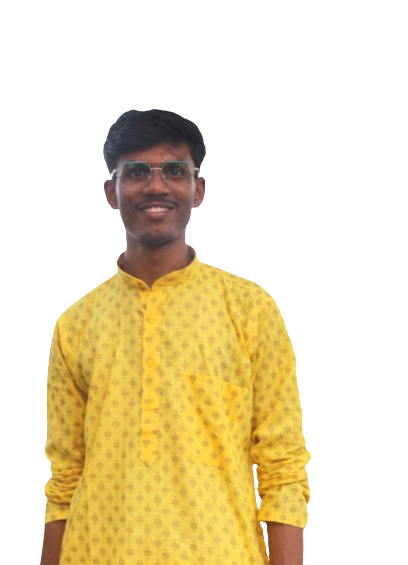
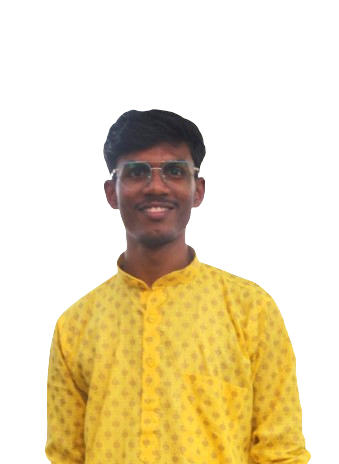
Update hero image container styles

diff --git a/src/Components/Hero/Hero.scss b/src/Components/Hero/Hero.scss
@@ -1,5 +1,14 @@
 .hero{
     height: calc(100vh - 100px);
+    overflow: hidden;
     background: linear-gradient(180deg, #0c0c1d, #111132 );
     
+
+
+    .imageContainer{
+        height: 100%;
+        position: absolute;
+        top: 0;
+        right: 0;
+    }
 }

diff --git a/src/Components/Hero/Hero.jsx b/src/Components/Hero/Hero.jsx
@@ -3,7 +3,7 @@ import './Hero.scss';
 const Hero = () => {
   return (
     <div className="hero">
-      <div className="image">
+      <div className="imageContainer">
         <img src="/hero.png" alt="" />
         </div>`
     </div>
